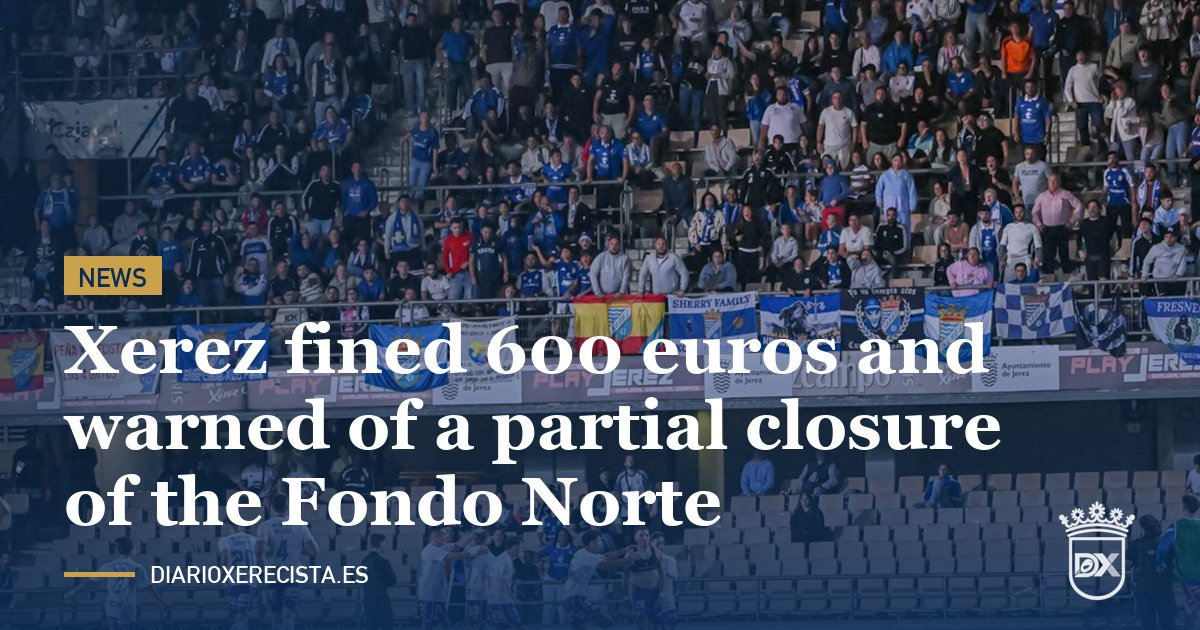
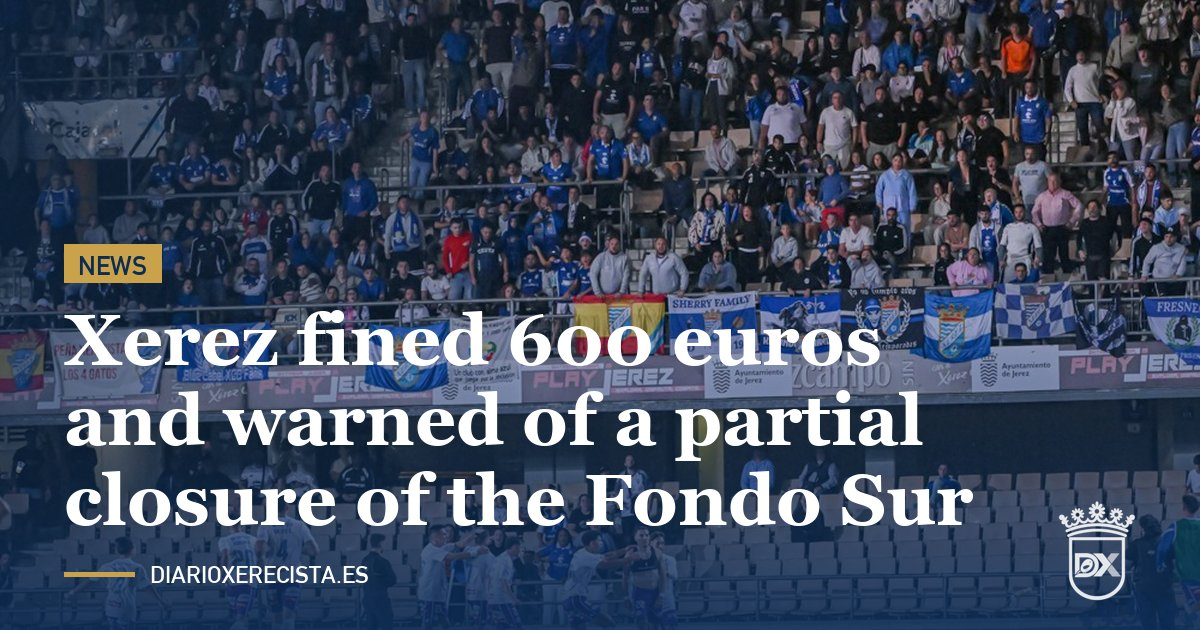
art96: el apercibimiento es del Fondo Sur, no del Norte (ES/EN e imagen para redes)
Se mantiene la URL para no romper enlaces ya compartidos.

Changed region(s): [[0.0308, 0.3619, 0.8325, 0.8444]]

diff --git a/noticias/articulos/2026-10/multa-de-600-euros-al-xerez-y-apercibimiento-de-cierre-parcial-del-fondo-norte-por-los-incidentes-en-el-gol-del-lucena/index.html b/noticias/articulos/2026-10/multa-de-600-euros-al-xerez-y-apercibimiento-de-cierre-parcial-del-fondo-norte-por-los-incidentes-en-el-gol-del-lucena/index.html
@@ -3,8 +3,8 @@
 <head>
 <meta charset="UTF-8">
 <meta name="viewport" content="width=device-width, initial-scale=1.0">
-<title>Multa de 600 euros al Xerez y apercibimiento de cierre parcial del Fondo Norte por los incidentes en el gol del Lucena | Diario Xerecista</title>
-<meta name="description" content="El Comité de Competición ha impuesto al Xerez CD una multa de 600 euros y un apercibimiento de cierre parcial del Fondo Norte por los incidentes registrados tras el gol del Ciudad de Lucena en Chapín, el pasado domingo 18 de octubre.">
+<title>Multa de 600 euros al Xerez y apercibimiento de cierre parcial del Fondo Sur por los incidentes en el gol del Lucena | Diario Xerecista</title>
+<meta name="description" content="El Comité de Competición ha impuesto al Xerez CD una multa de 600 euros y un apercibimiento de cierre parcial del Fondo Sur por los incidentes registrados tras el gol del Ciudad de Lucena en Chapín, el pasado domingo 18 de octubre.">
 <meta name="robots" content="index, follow, max-snippet:-1, max-image-preview:large">
 <link rel="canonical" href="https://www.diarioxerecista.es/noticias/articulos/2026-10/multa-de-600-euros-al-xerez-y-apercibimiento-de-cierre-parcial-del-fondo-norte-por-los-incidentes-en-el-gol-del-lucena/">
 <link rel="alternate" hreflang="es" href="https://www.diarioxerecista.es/noticias/articulos/2026-10/multa-de-600-euros-al-xerez-y-apercibimiento-de-cierre-parcial-del-fondo-norte-por-los-incidentes-en-el-gol-del-lucena/">
@@ -13,8 +13,8 @@
 
 <meta property="og:type" content="article">
 <meta property="og:site_name" content="Diario Xerecista">
-<meta property="og:title" content="Multa de 600 euros al Xerez y apercibimiento de cierre parcial del Fondo Norte por los incidentes en el gol del Lucena">
-<meta property="og:description" content="El Comité de Competición ha impuesto al Xerez CD una multa de 600 euros y un apercibimiento de cierre parcial del Fondo Norte por los incidentes registrados tras el gol del Ciudad de Lucena en Chapín, el pasado domingo 18 de octubre.">
+<meta property="og:title" content="Multa de 600 euros al Xerez y apercibimiento de cierre parcial del Fondo Sur por los incidentes en el gol del Lucena">
+<meta property="og:description" content="El Comité de Competición ha impuesto al Xerez CD una multa de 600 euros y un apercibimiento de cierre parcial del Fondo Sur por los incidentes registrados tras el gol del Ciudad de Lucena en Chapín, el pasado domingo 18 de octubre.">
 <meta property="og:url" content="https://www.diarioxerecista.es/noticias/articulos/2026-10/multa-de-600-euros-al-xerez-y-apercibimiento-de-cierre-parcial-del-fondo-norte-por-los-incidentes-en-el-gol-del-lucena/">
 <meta property="og:image" content="https://www.diarioxerecista.es/fotos/redes/art96-es.jpg">
 <meta property="og:image:width" content="1200">
@@ -22,8 +22,8 @@
 <meta property="og:locale" content="es_ES">
 
 <meta name="twitter:card" content="summary_large_image">
-<meta name="twitter:title" content="Multa de 600 euros al Xerez y apercibimiento de cierre parcial del Fondo Norte por los incidentes en el gol del Lucena">
-<meta name="twitter:description" content="El Comité de Competición ha impuesto al Xerez CD una multa de 600 euros y un apercibimiento de cierre parcial del Fondo Norte por los incidentes registrados tras el gol del Ciudad de Lucena en Chapín, el pasado domingo 18 de octubre.">
+<meta name="twitter:title" content="Multa de 600 euros al Xerez y apercibimiento de cierre parcial del Fondo Sur por los incidentes en el gol del Lucena">
+<meta name="twitter:description" content="El Comité de Competición ha impuesto al Xerez CD una multa de 600 euros y un apercibimiento de cierre parcial del Fondo Sur por los incidentes registrados tras el gol del Ciudad de Lucena en Chapín, el pasado domingo 18 de octubre.">
 <meta name="twitter:image" content="https://www.diarioxerecista.es/fotos/redes/art96-es.jpg">
 
 <link rel="preconnect" href="https://fonts.googleapis.com">
@@ -35,8 +35,8 @@
 {
   "@context": "https://schema.org",
   "@type": "NewsArticle",
-  "headline": "Multa de 600 euros al Xerez y apercibimiento de cierre parcial del Fondo Norte por los incidentes en el gol del Lucena",
-  "description": "El Comité de Competición ha impuesto al Xerez CD una multa de 600 euros y un apercibimiento de cierre parcial del Fondo Norte por los incidentes registrados tras el gol del Ciudad de Lucena en Chapín, el pasado domingo 18 de octubre.",
+  "headline": "Multa de 600 euros al Xerez y apercibimiento de cierre parcial del Fondo Sur por los incidentes en el gol del Lucena",
+  "description": "El Comité de Competición ha impuesto al Xerez CD una multa de 600 euros y un apercibimiento de cierre parcial del Fondo Sur por los incidentes registrados tras el gol del Ciudad de Lucena en Chapín, el pasado domingo 18 de octubre.",
   "image": [
     "https://www.diarioxerecista.es/fotos/publicadas/xerez-lucena-j7-celebracion-lucena.jpg"
   ],
@@ -75,24 +75,24 @@
 
   <main class="n-article">
     <span class="eyebrow">Xerez CD · Sanción</span>
-    <h1>Multa de 600 euros al Xerez y apercibimiento de cierre parcial del Fondo Norte por los incidentes en el gol del Lucena</h1>
+    <h1>Multa de 600 euros al Xerez y apercibimiento de cierre parcial del Fondo Sur por los incidentes en el gol del Lucena</h1>
 
     <div class="n-photo">
       <img src="../../../../fotos/publicadas/xerez-lucena-j7-celebracion-lucena.jpg" alt="Los jugadores del Ciudad de Lucena celebran el gol del 0-1 ante la grada de Chapín" loading="lazy">
       <span class="n-credit">Foto: Diario Xerecista</span>
     </div>
 
-    <p class="lead">El Comité de Competición ha impuesto al Xerez CD una multa de 600 euros y un apercibimiento de cierre parcial del Fondo Norte por los incidentes registrados tras el gol del Ciudad de Lucena en Chapín, el pasado domingo 18 de octubre.</p>
+    <p class="lead">El Comité de Competición ha impuesto al Xerez CD una multa de 600 euros y un apercibimiento de cierre parcial del Fondo Sur por los incidentes registrados tras el gol del Ciudad de Lucena en Chapín, el pasado domingo 18 de octubre.</p>
 
     <p>Los hechos se produjeron en el minuto 89 del partido de la séptima jornada, cuando Sergio García marcó el 0-1 que dio la victoria al Ciudad de Lucena. Según recoge el acta del encuentro, en ese momento se lanzaron botellas y mecheros desde la grada.</p>
 
     <h2>Un aviso antes del derbi</h2>
 
-    <p>El apercibimiento supone que, si se repiten incidentes similares, el club podría ser sancionado con el cierre parcial del Fondo Norte. La sanción llega a una semana del partido de Copa del Rey ante el Cádiz CF, que se disputará el miércoles 28 de octubre a las 21:00 horas en Chapín y que ha sido declarado de alto riesgo por las autoridades competentes.</p>
+    <p>El apercibimiento supone que, si se repiten incidentes similares, el club podría ser sancionado con el cierre parcial del Fondo Sur. La sanción llega a una semana del partido de Copa del Rey ante el Cádiz CF, que se disputará el miércoles 28 de octubre a las 21:00 horas en Chapín y que ha sido declarado de alto riesgo por las autoridades competentes.</p>
 
     <div class="n-meta-row">
       <span class="byline">Redacción — 21 de octubre de 2026</span>
-      <a href="https://x.com/intent/tweet?text=Multa%20de%20600%20euros%20al%20Xerez%20y%20apercibimiento%20de%20cierre%20parcial%20del%20Fondo%20Norte%20por%20los%20incidentes%20en%20el%20gol%20del%20Lucena%0A%0Ahttps%3A%2F%2Fwww.diarioxerecista.es%2Fnoticias%2Farticulos%2F2026-10%2Fmulta-de-600-euros-al-xerez-y-apercibimiento-de-cierre-parcial-del-fondo-norte-por-los-incidentes-en-el-gol-del-lucena%2F%0A%0A%23XerezCD" target="_blank" rel="noopener" class="share-x-btn">Compartir en 𝕏</a>
+      <a href="https://x.com/intent/tweet?text=Multa%20de%20600%20euros%20al%20Xerez%20y%20apercibimiento%20de%20cierre%20parcial%20del%20Fondo%20Sur%20por%20los%20incidentes%20en%20el%20gol%20del%20Lucena%0A%0Ahttps%3A%2F%2Fwww.diarioxerecista.es%2Fnoticias%2Farticulos%2F2026-10%2Fmulta-de-600-euros-al-xerez-y-apercibimiento-de-cierre-parcial-del-fondo-norte-por-los-incidentes-en-el-gol-del-lucena%2F%0A%0A%23XerezCD" target="_blank" rel="noopener" class="share-x-btn">Compartir en 𝕏</a>
     </div>
 
     <a class="back-link" href="../../../../en/noticias/articulos/2026-10/xerez-fined-600-euros-and-warned-of-a-partial-closure-of-the-fondo-norte-over-incidents-at-lucenas-goal/" style="display:block;margin-bottom:10px;">🇬🇧 Read in English</a>

diff --git a/en/noticias/articulos/2026-10/xerez-fined-600-euros-and-warned-of-a-partial-closure-of-the-fondo-norte-over-incidents-at-lucenas-goal/index.html b/en/noticias/articulos/2026-10/xerez-fined-600-euros-and-warned-of-a-partial-closure-of-the-fondo-norte-over-incidents-at-lucenas-goal/index.html
@@ -3,8 +3,8 @@
 <head>
 <meta charset="UTF-8">
 <meta name="viewport" content="width=device-width, initial-scale=1.0">
-<title>Xerez fined 600 euros and warned of a partial closure of the Fondo Norte over incidents at Lucena's goal | Diario Xerecista</title>
-<meta name="description" content="The Competition Committee has fined Xerez CD 600 euros and issued a warning of a partial closure of the Fondo Norte over the incidents that followed Ciudad de Lucena's goal at Chapín last Sunday, 18 October.">
+<title>Xerez fined 600 euros and warned of a partial closure of the Fondo Sur over incidents at Lucena's goal | Diario Xerecista</title>
+<meta name="description" content="The Competition Committee has fined Xerez CD 600 euros and issued a warning of a partial closure of the Fondo Sur over the incidents that followed Ciudad de Lucena's goal at Chapín last Sunday, 18 October.">
 <meta name="robots" content="index, follow, max-snippet:-1, max-image-preview:large">
 <link rel="canonical" href="https://www.diarioxerecista.es/en/noticias/articulos/2026-10/xerez-fined-600-euros-and-warned-of-a-partial-closure-of-the-fondo-norte-over-incidents-at-lucenas-goal/">
 <link rel="alternate" hreflang="es" href="https://www.diarioxerecista.es/noticias/articulos/2026-10/multa-de-600-euros-al-xerez-y-apercibimiento-de-cierre-parcial-del-fondo-norte-por-los-incidentes-en-el-gol-del-lucena/">
@@ -13,8 +13,8 @@
 
 <meta property="og:type" content="article">
 <meta property="og:site_name" content="Diario Xerecista">
-<meta property="og:title" content="Xerez fined 600 euros and warned of a partial closure of the Fondo Norte over incidents at Lucena's goal">
-<meta property="og:description" content="The Competition Committee has fined Xerez CD 600 euros and issued a warning of a partial closure of the Fondo Norte over the incidents that followed Ciudad de Lucena's goal at Chapín last Sunday, 18 October.">
+<meta property="og:title" content="Xerez fined 600 euros and warned of a partial closure of the Fondo Sur over incidents at Lucena's goal">
+<meta property="og:description" content="The Competition Committee has fined Xerez CD 600 euros and issued a warning of a partial closure of the Fondo Sur over the incidents that followed Ciudad de Lucena's goal at Chapín last Sunday, 18 October.">
 <meta property="og:url" content="https://www.diarioxerecista.es/en/noticias/articulos/2026-10/xerez-fined-600-euros-and-warned-of-a-partial-closure-of-the-fondo-norte-over-incidents-at-lucenas-goal/">
 <meta property="og:image" content="https://www.diarioxerecista.es/fotos/redes/art96-en.jpg">
 <meta property="og:image:width" content="1200">
@@ -22,8 +22,8 @@
 <meta property="og:locale" content="en_GB">
 
 <meta name="twitter:card" content="summary_large_image">
-<meta name="twitter:title" content="Xerez fined 600 euros and warned of a partial closure of the Fondo Norte over incidents at Lucena's goal">
-<meta name="twitter:description" content="The Competition Committee has fined Xerez CD 600 euros and issued a warning of a partial closure of the Fondo Norte over the incidents that followed Ciudad de Lucena's goal at Chapín last Sunday, 18 October.">
+<meta name="twitter:title" content="Xerez fined 600 euros and warned of a partial closure of the Fondo Sur over incidents at Lucena's goal">
+<meta name="twitter:description" content="The Competition Committee has fined Xerez CD 600 euros and issued a warning of a partial closure of the Fondo Sur over the incidents that followed Ciudad de Lucena's goal at Chapín last Sunday, 18 October.">
 <meta name="twitter:image" content="https://www.diarioxerecista.es/fotos/redes/art96-en.jpg">
 
 <link rel="preconnect" href="https://fonts.googleapis.com">
@@ -35,8 +35,8 @@
 {
   "@context": "https://schema.org",
   "@type": "NewsArticle",
-  "headline": "Xerez fined 600 euros and warned of a partial closure of the Fondo Norte over incidents at Lucena's goal",
-  "description": "The Competition Committee has fined Xerez CD 600 euros and issued a warning of a partial closure of the Fondo Norte over the incidents that followed Ciudad de Lucena's goal at Chapín last Sunday, 18 October.",
+  "headline": "Xerez fined 600 euros and warned of a partial closure of the Fondo Sur over incidents at Lucena's goal",
+  "description": "The Competition Committee has fined Xerez CD 600 euros and issued a warning of a partial closure of the Fondo Sur over the incidents that followed Ciudad de Lucena's goal at Chapín last Sunday, 18 October.",
   "image": [
     "https://www.diarioxerecista.es/fotos/publicadas/xerez-lucena-j7-celebracion-lucena.jpg"
   ],
@@ -75,24 +75,24 @@
 
   <main class="n-article">
     <span class="eyebrow">Xerez CD · Disciplinary</span>
-    <h1>Xerez fined 600 euros and warned of a partial closure of the Fondo Norte over incidents at Lucena's goal</h1>
+    <h1>Xerez fined 600 euros and warned of a partial closure of the Fondo Sur over incidents at Lucena's goal</h1>
 
     <div class="n-photo">
       <img src="../../../../../fotos/publicadas/xerez-lucena-j7-celebracion-lucena.jpg" alt="Ciudad de Lucena players celebrate the 0-1 goal in front of the stands at Chapín" loading="lazy">
       <span class="n-credit">Photo: Diario Xerecista</span>
     </div>
 
-    <p class="lead">The Competition Committee has fined Xerez CD 600 euros and issued a warning of a partial closure of the Fondo Norte over the incidents that followed Ciudad de Lucena's goal at Chapín last Sunday, 18 October.</p>
+    <p class="lead">The Competition Committee has fined Xerez CD 600 euros and issued a warning of a partial closure of the Fondo Sur over the incidents that followed Ciudad de Lucena's goal at Chapín last Sunday, 18 October.</p>
 
     <p>The incidents took place in the 89th minute of the seventh-matchday fixture, when Sergio García scored the 0-1 that gave Ciudad de Lucena victory. According to the match report, bottles and lighters were thrown from the stands at that moment.</p>
 
     <h2>A warning ahead of the derby</h2>
 
-    <p>The warning means that, if similar incidents happen again, the club could be punished with a partial closure of the Fondo Norte. The sanction comes a week before the Copa del Rey match against Cádiz CF, to be played on Wednesday 28 October at 21:00 at Chapín and which has been declared high risk by the relevant authorities.</p>
+    <p>The warning means that, if similar incidents happen again, the club could be punished with a partial closure of the Fondo Sur. The sanction comes a week before the Copa del Rey match against Cádiz CF, to be played on Wednesday 28 October at 21:00 at Chapín and which has been declared high risk by the relevant authorities.</p>
 
     <div class="n-meta-row">
       <span class="byline">Newsroom — 21 October 2026</span>
-      <a href="https://x.com/intent/tweet?text=Xerez%20fined%20600%20euros%20and%20warned%20of%20a%20partial%20closure%20of%20the%20Fondo%20Norte%20over%20incidents%20at%20Lucena%27s%20goal%0A%0Ahttps%3A%2F%2Fwww.diarioxerecista.es%2Fen%2Fnoticias%2Farticulos%2F2026-10%2Fxerez-fined-600-euros-and-warned-of-a-partial-closure-of-the-fondo-norte-over-incidents-at-lucenas-goal%2F%0A%0A%23XerezCD" target="_blank" rel="noopener" class="share-x-btn">Share on 𝕏</a>
+      <a href="https://x.com/intent/tweet?text=Xerez%20fined%20600%20euros%20and%20warned%20of%20a%20partial%20closure%20of%20the%20Fondo%20Sur%20over%20incidents%20at%20Lucena%27s%20goal%0A%0Ahttps%3A%2F%2Fwww.diarioxerecista.es%2Fen%2Fnoticias%2Farticulos%2F2026-10%2Fxerez-fined-600-euros-and-warned-of-a-partial-closure-of-the-fondo-norte-over-incidents-at-lucenas-goal%2F%0A%0A%23XerezCD" target="_blank" rel="noopener" class="share-x-btn">Share on 𝕏</a>
     </div>
 
     <a class="back-link" href="../../../../../noticias/articulos/2026-10/multa-de-600-euros-al-xerez-y-apercibimiento-de-cierre-parcial-del-fondo-norte-por-los-incidentes-en-el-gol-del-lucena/" style="display:block;margin-bottom:10px;">🇪🇸 Leer en español</a>
